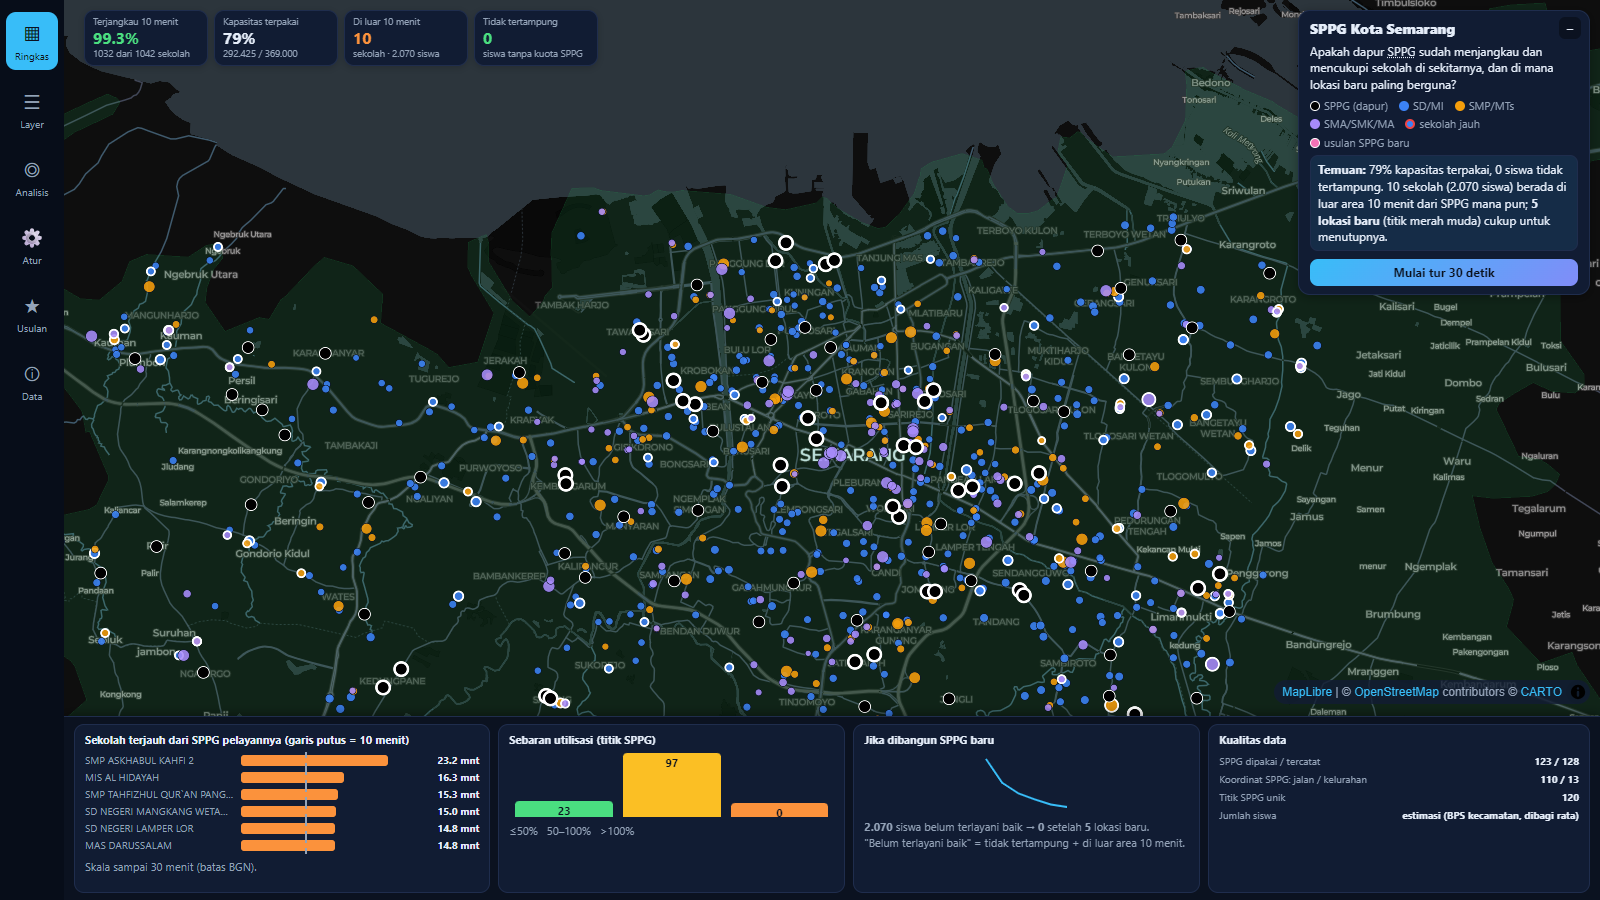
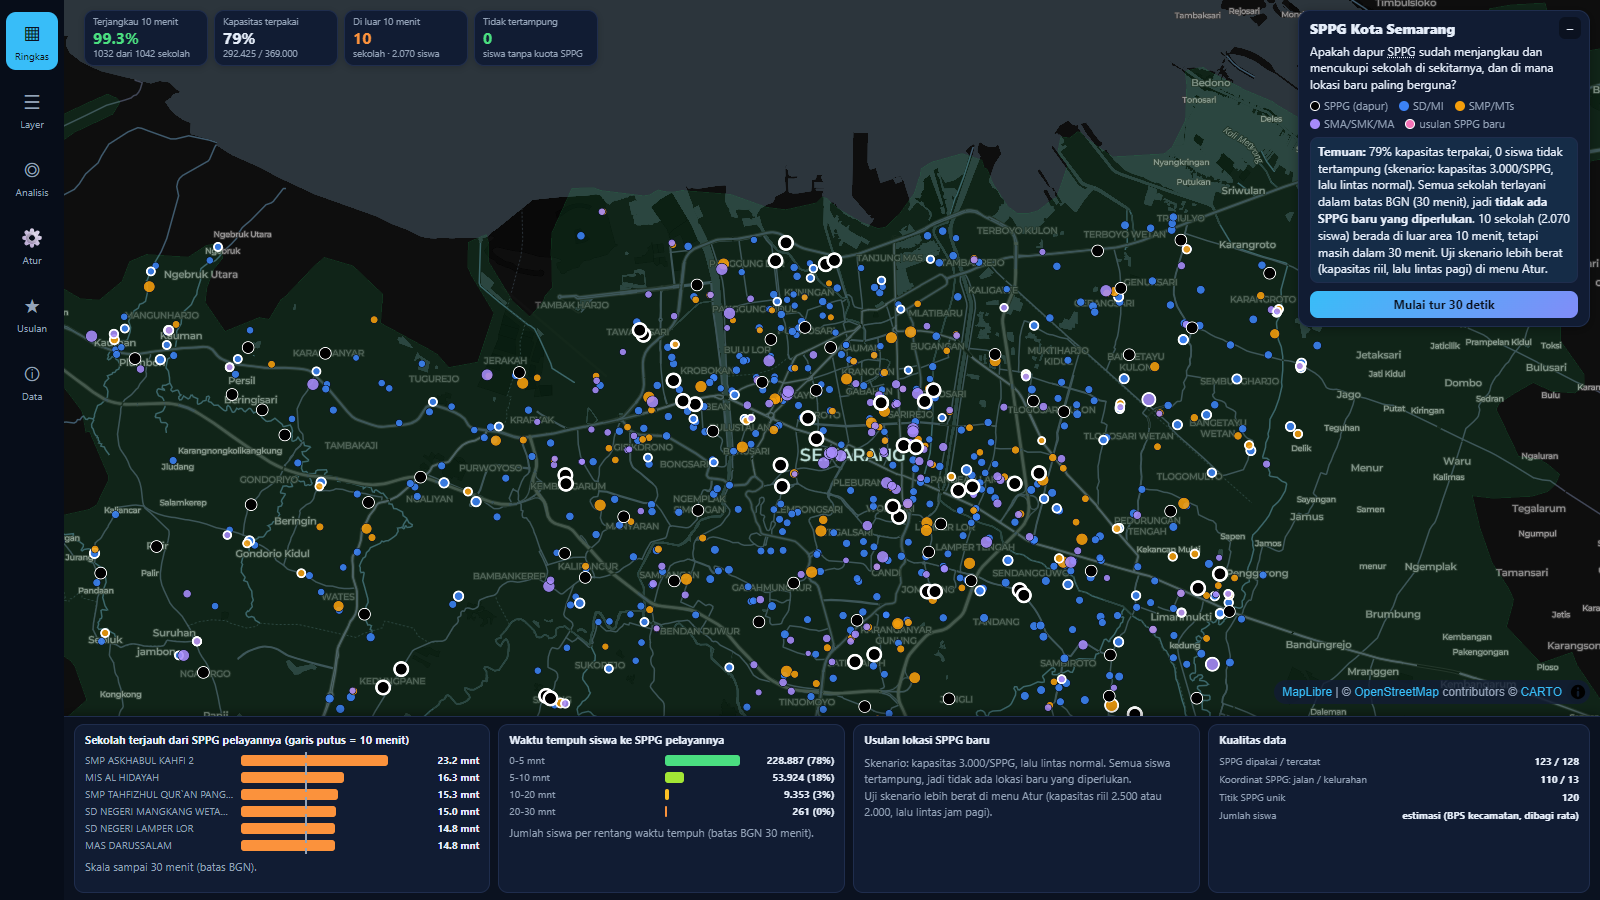
Perbarui README, angka skenario, dan tangkapan layar

Changed region(s): [[0.3125, 0.8089, 0.7188, 0.9644], [0.8125, 0.1244, 1.0, 0.3733]]

diff --git a/README.md b/README.md
@@ -17,8 +17,8 @@ Dengan aturan resmi BGN yang dipakai proyek ini (maksimal 3.000 porsi per SPPG p
 | Siswa yang tidak tertampung kuota SPPG mana pun dalam 30 menit | **0** |
 | Sekolah di luar area 10 menit dari SPPG mana pun | **10 sekolah** (2.070 siswa) |
 | Lokasi SPPG baru yang diperlukan menurut aturan BGN | **0** (semua siswa tertampung dalam 30 menit) |
-| Uji ketahanan: kapasitas riil 2.500, lalu lintas normal | 2.300 siswa tidak tertampung; **1 lokasi baru** menutupnya |
-| Uji ketahanan: kapasitas riil 2.500, lalu lintas jam pagi ×1,5 | 8.338 siswa tidak tertampung; **5 lokasi baru** menutupnya |
+| Uji ketahanan: kapasitas riil 2.500, lalu lintas normal | 2.365 siswa tidak tertampung; **1 lokasi baru** menutupnya |
+| Uji ketahanan: kapasitas riil 2.500, lalu lintas jam pagi ×1,5 | 8.734 siswa tidak tertampung; **5 lokasi baru** menutupnya |
 | Waktu tempuh ke SPPG tercepat | median 2,5 menit, persentil 90 5,0 menit, maksimum 17,4 menit |
 
 Artinya, **menurut aturan BGN jaringan SPPG Kota Semarang sudah mencukupi dan tidak ada lokasi baru yang wajib dibangun**. Batas 10 menit adalah ukuran internal yang lebih ketat dari batas BGN (20–30 menit); sepuluh sekolah di tepi kota berada di luar 10 menit, tetapi tidak ada yang lebih dari 17,4 menit dari SPPG terdekat.
@@ -27,7 +27,9 @@ Usulan lokasi baru karena itu dihitung dari **uji ketahanan**, bukan dari aturan
 
 Catatan alokasi: SPPG yang penuh melepas sekolah ke SPPG terdekat berikutnya, sehingga sebagian sekolah dilayani SPPG yang bukan tercepat. Rata-rata waktu tempuh siswa 3,5 menit, tetapi 38 sekolah dilayani SPPG yang berjarak lebih dari 10 menit (terjauh 23 menit, masih di bawah 30).
 
-![Kandidat lokasi SPPG baru](docs/screenshot/kandidat.png)
+![Usulan lokasi SPPG baru pada skenario kapasitas 2.500 dan lalu lintas ×1,5](docs/screenshot/kandidat.png)
+
+*Contoh skenario uji ketahanan: kapasitas riil 2.500 per SPPG dan lalu lintas pagi ×1,5; titik merah muda adalah 5 lokasi usulan.*
 
 ## Fitur
 

diff --git a/docs/catatan-belajar.md b/docs/catatan-belajar.md
@@ -1196,7 +1196,7 @@ Usulan 5 lokasi SPPG baru hanya didasarkan pada batas 10 menit buatan sendiri. M
 - Pencarian kandidat diperbaiki: lokasi baru hanya mengambil sekolah dari SPPG yang melebihi kapasitas, sebatas kelebihannya dan kapasitas lokasi baru. Sebelumnya kapasitas lokasi baru terbuang untuk sekolah yang sudah terlayani baik, sehingga hasilnya kurang (2.500 menyisakan 1.285 siswa dengan 3 lokasi).
 
 **Hasil**
-BGN (3.000, normal): 0 lokasi. 3.000 dengan macet ×1,5: 232 siswa, 1 lokasi. 2.500 normal: 2.300 siswa, 1 lokasi. 2.500 dengan macet ×1,5: 8.338 siswa, 5 lokasi. 2.000: sekitar 50.000 siswa, 10 lokasi belum cukup (30.091 tersisa). Simulasi terpisah memberi angka sejalan (2.500 normal: 2.365 siswa).
+BGN (3.000, normal): 0 lokasi. 3.000 dengan macet ×1,5: 261 siswa, 1 lokasi. 2.500 normal: 2.365 siswa, 1 lokasi. 2.500 dengan macet ×1,5: 8.734 siswa, 5 lokasi. 2.000: 51.490 siswa, 10 lokasi belum cukup (30.091 tersisa). Simulasi terpisah memberi angka sejalan (2.500 normal: 2.365 siswa).
 
 **Pelajaran**
 Dasar sebuah usulan harus sama dengan aturan yang berlaku; parameter buatan sendiri hanya layak jadi pengujian tambahan. Setelah mengubah tujuan pencarian, periksa juga bahwa algoritmanya benar-benar mencapai tujuan itu (di sini kapasitas lokasi baru terbuang).
